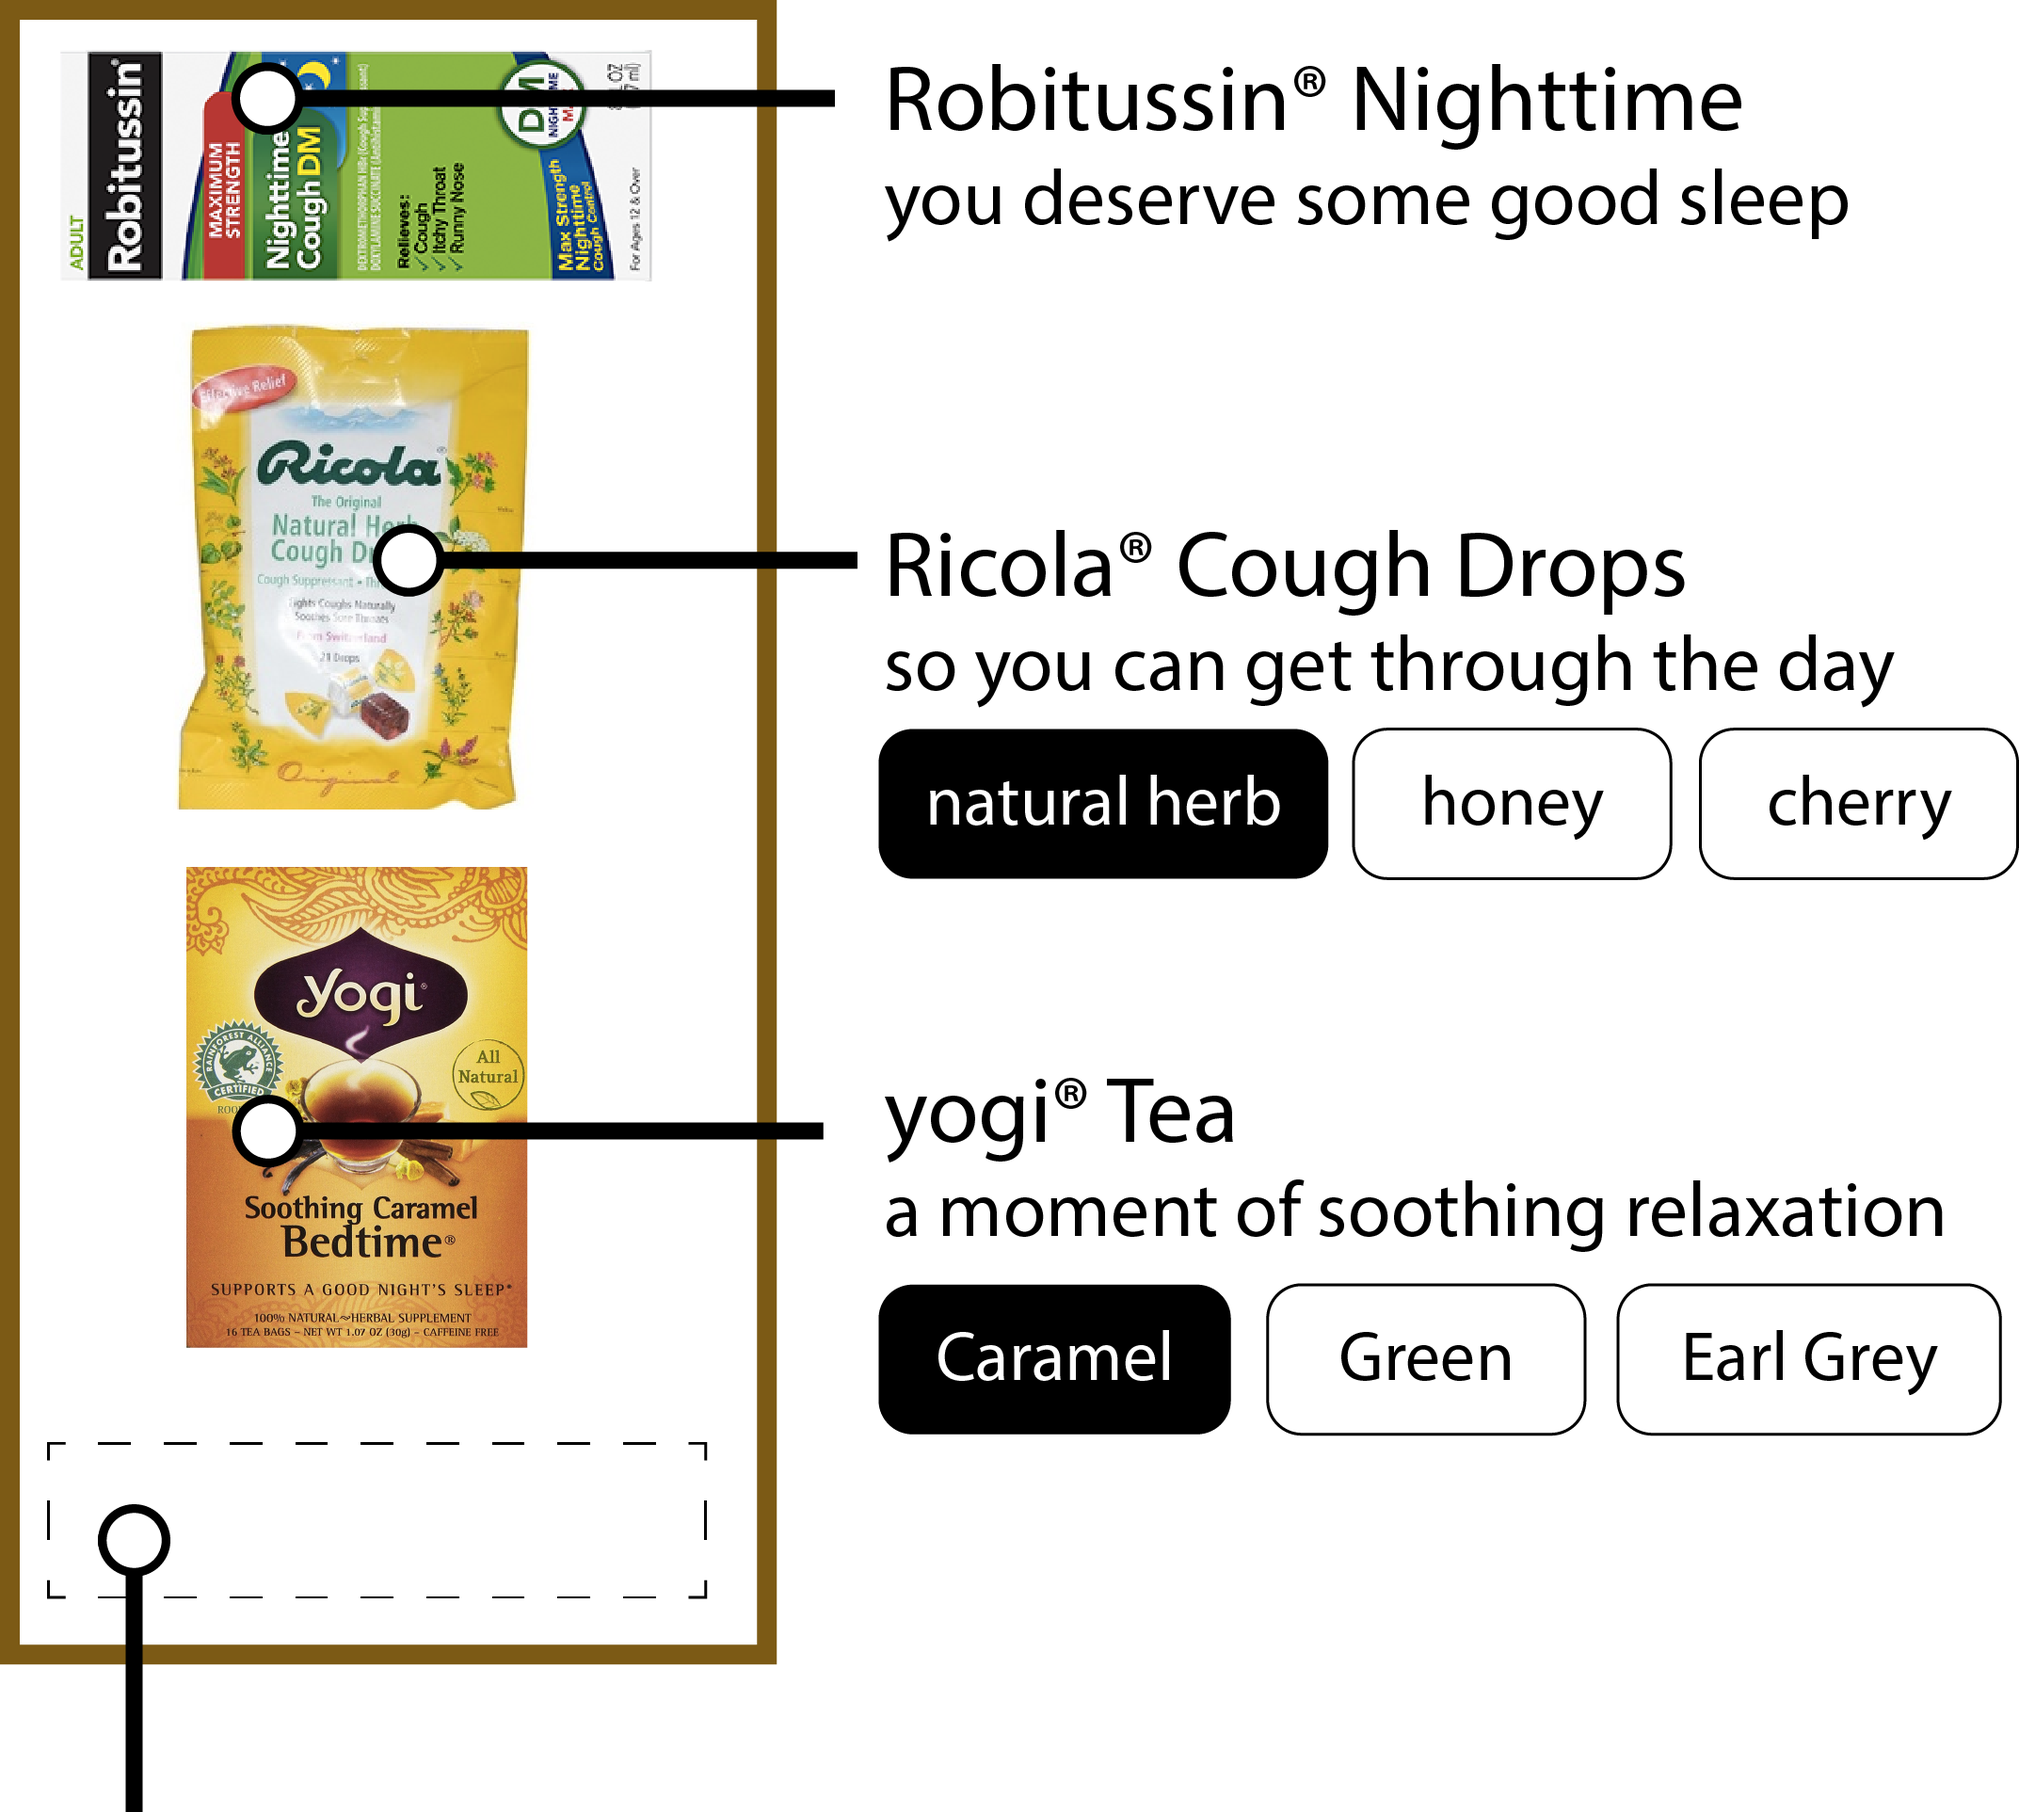
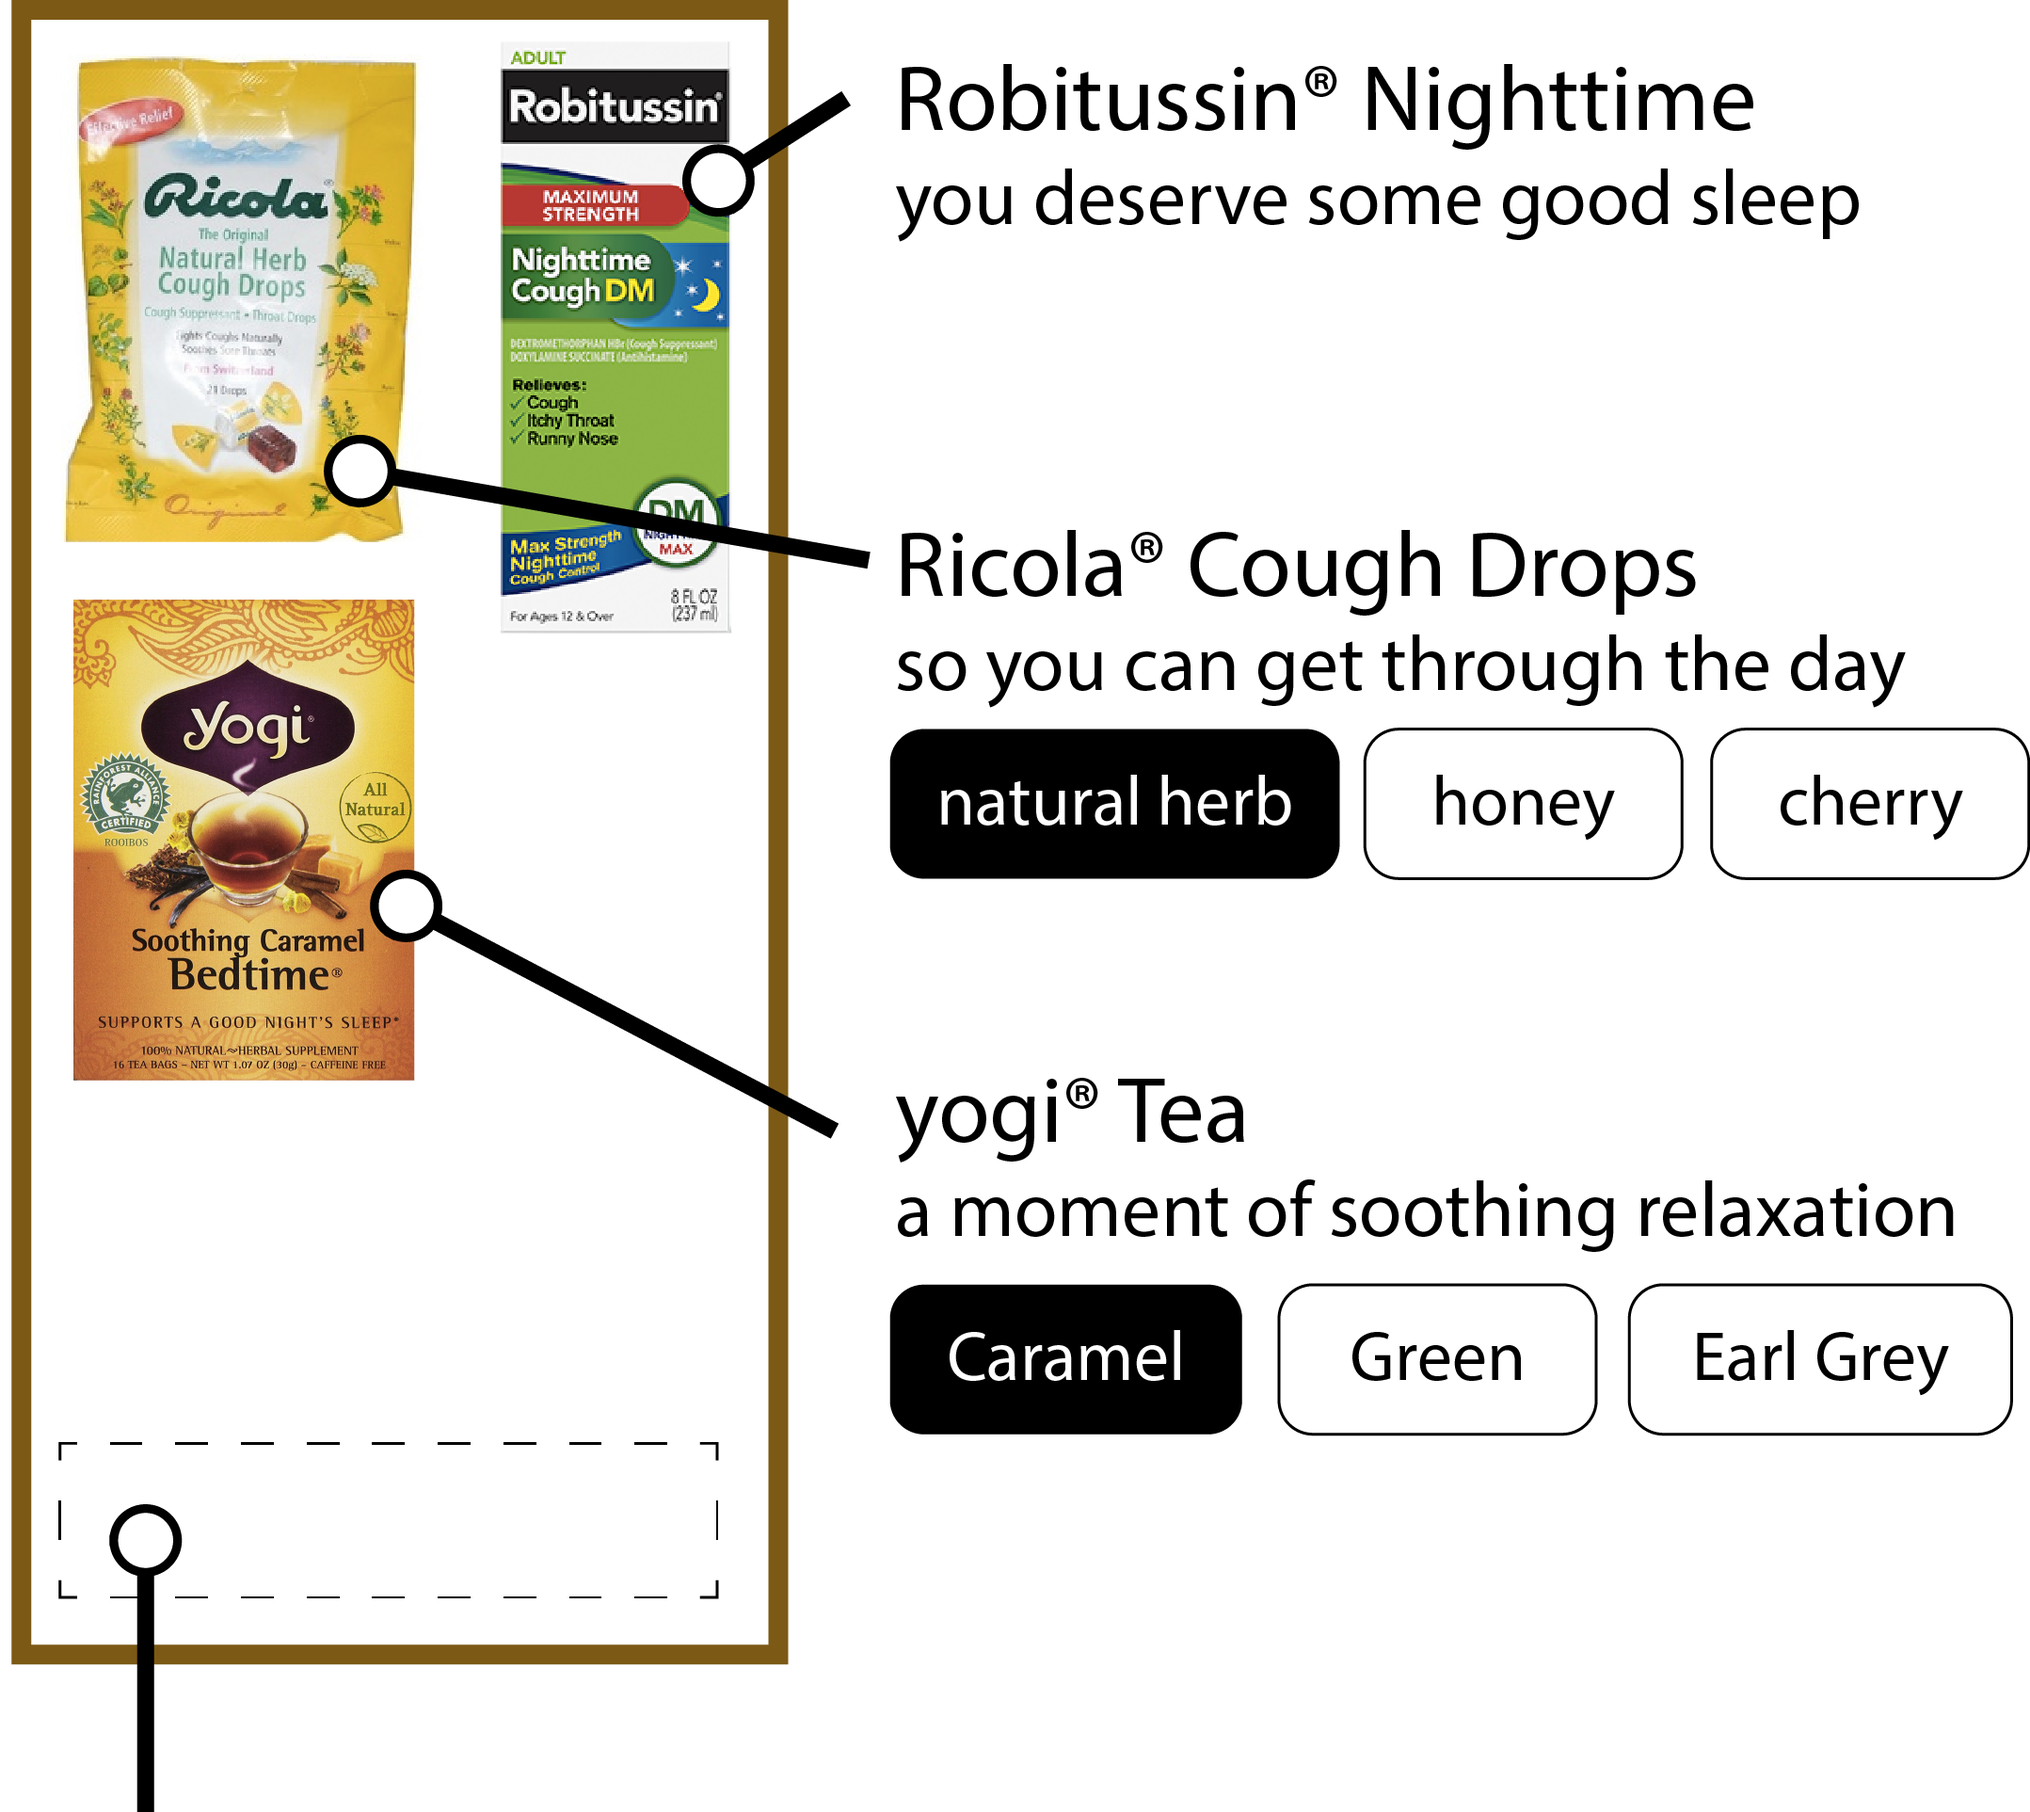
changes

diff --git a/scroller.html b/scroller.html
@@ -18,13 +18,11 @@ html, body{
 
 .scrollydoo{
     width:100%;
-    height:280px;
-    background: blue;
+    padding:15px;
     overflow-x: scroll;
 }
 
 .innerScroll{
-    width:100000px;
 }
 
 .prod{
@@ -212,18 +210,7 @@ How are you feeling?
 
 <div class="scrollydoo">
     <div class="innerScroll">
-        <div class="prod">
-        </div>
-        <div class="prod">
-        </div>
-        <div class="prod">
-        </div>
-        <div class="prod">
-        </div>
-        <div class="prod">
-        </div>
-        <div class="prod">
-        </div>
+        <img src="Asset 2.png" />
     </div>
 </div>
 </div>
